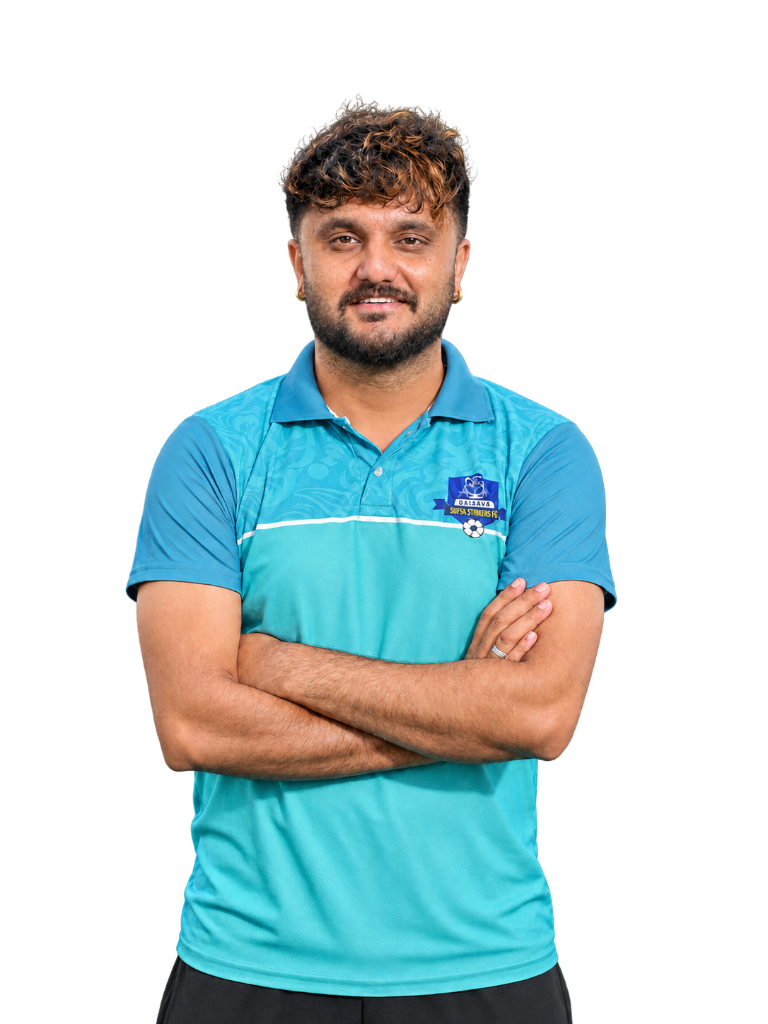
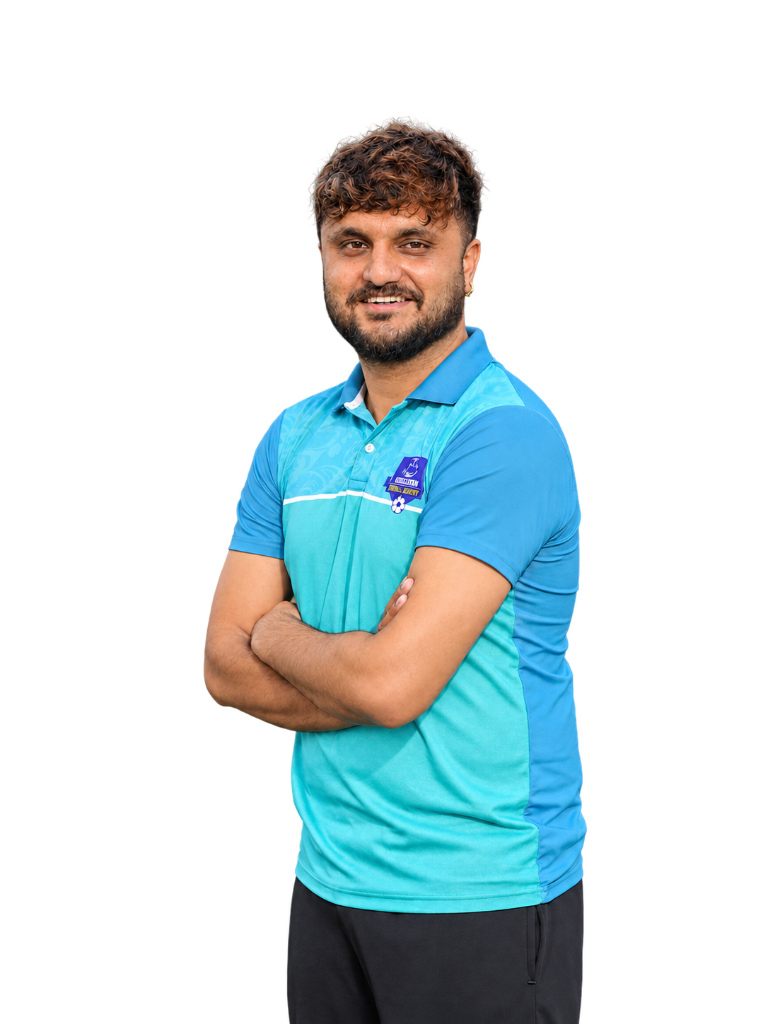
feat: update Coach 3 and 4 images and normalize Coach 5 canvas to matching 3:4 portrait

diff --git a/app/players/page.tsx b/app/players/page.tsx
@@ -299,7 +299,7 @@ export default function PlayersPage() {
                       src={coach.image}
                       alt={coach.name}
                       fill
-                      className="object-contain object-bottom p-1 sm:p-2 transition-transform duration-500 group-hover:scale-105"
+                      className="object-contain object-bottom transition-transform duration-500 group-hover:scale-105"
                       sizes="(max-width: 640px) 100vw, (max-width: 1024px) 50vw, 33vw"
                     />
 
